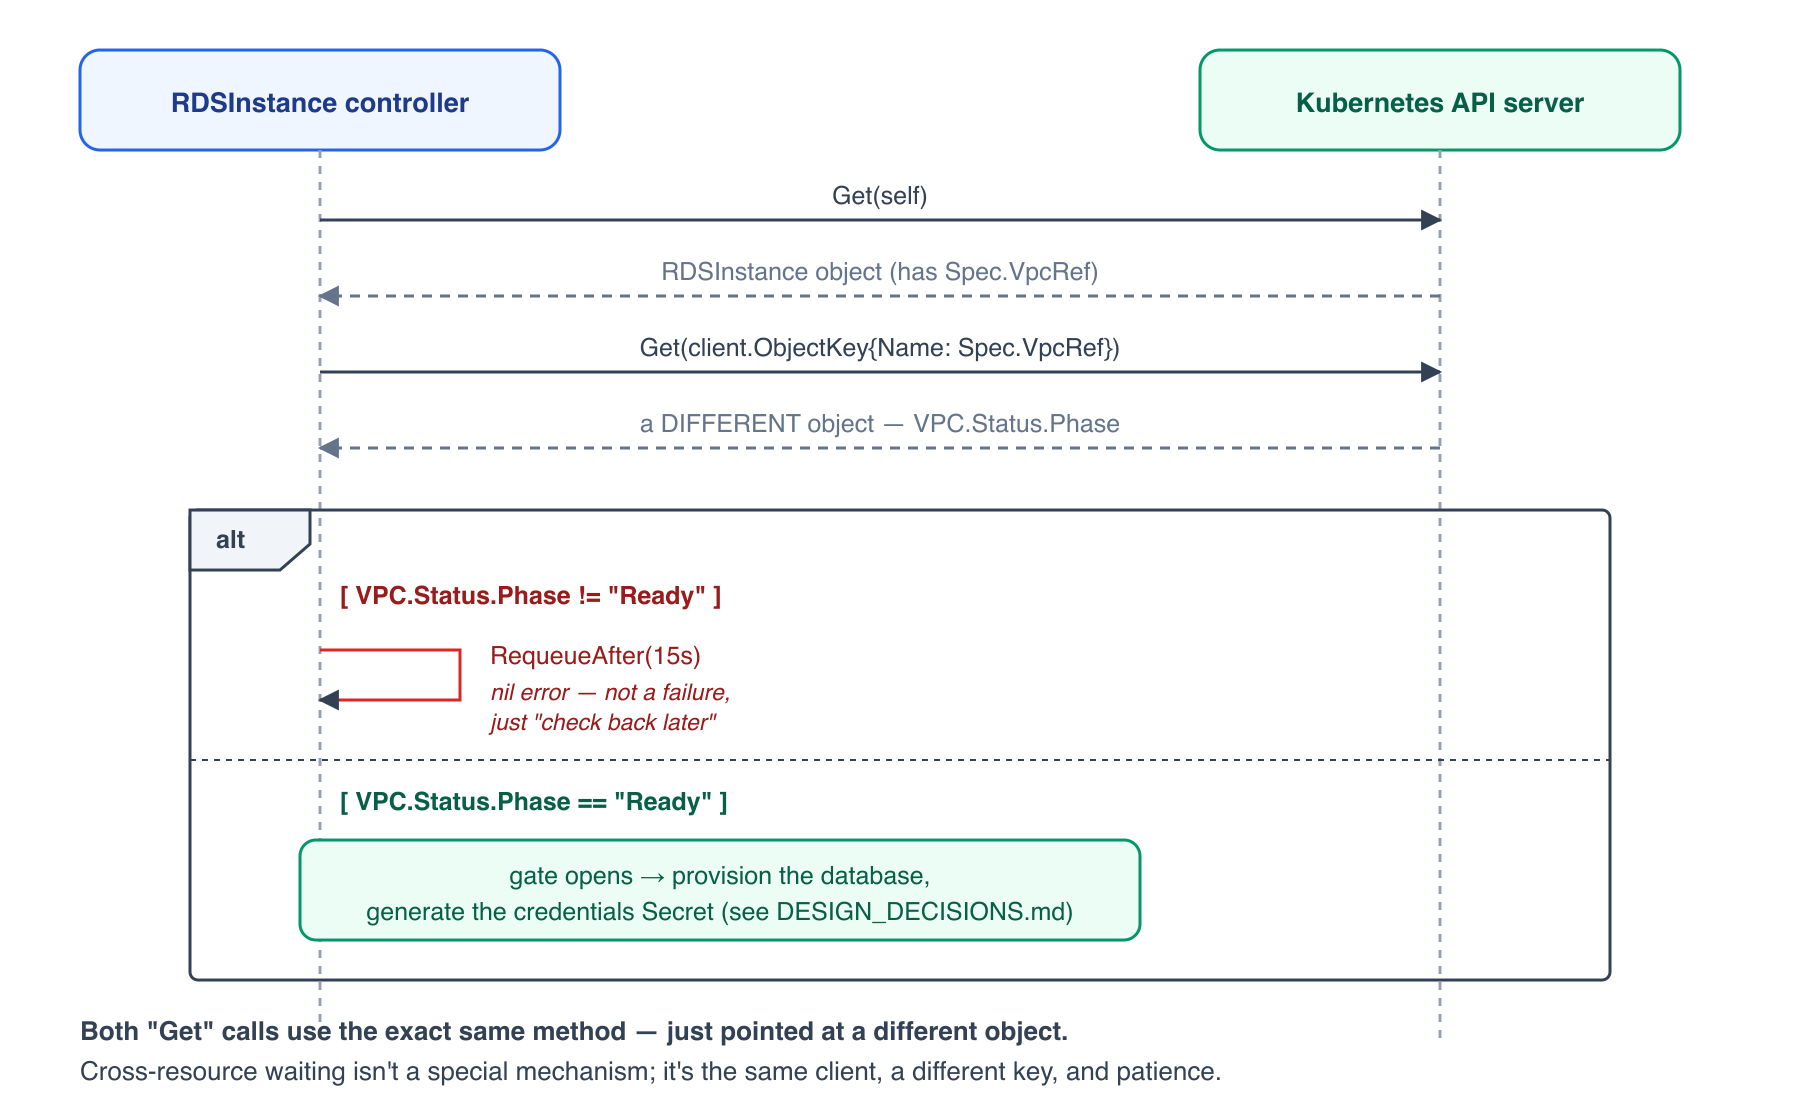
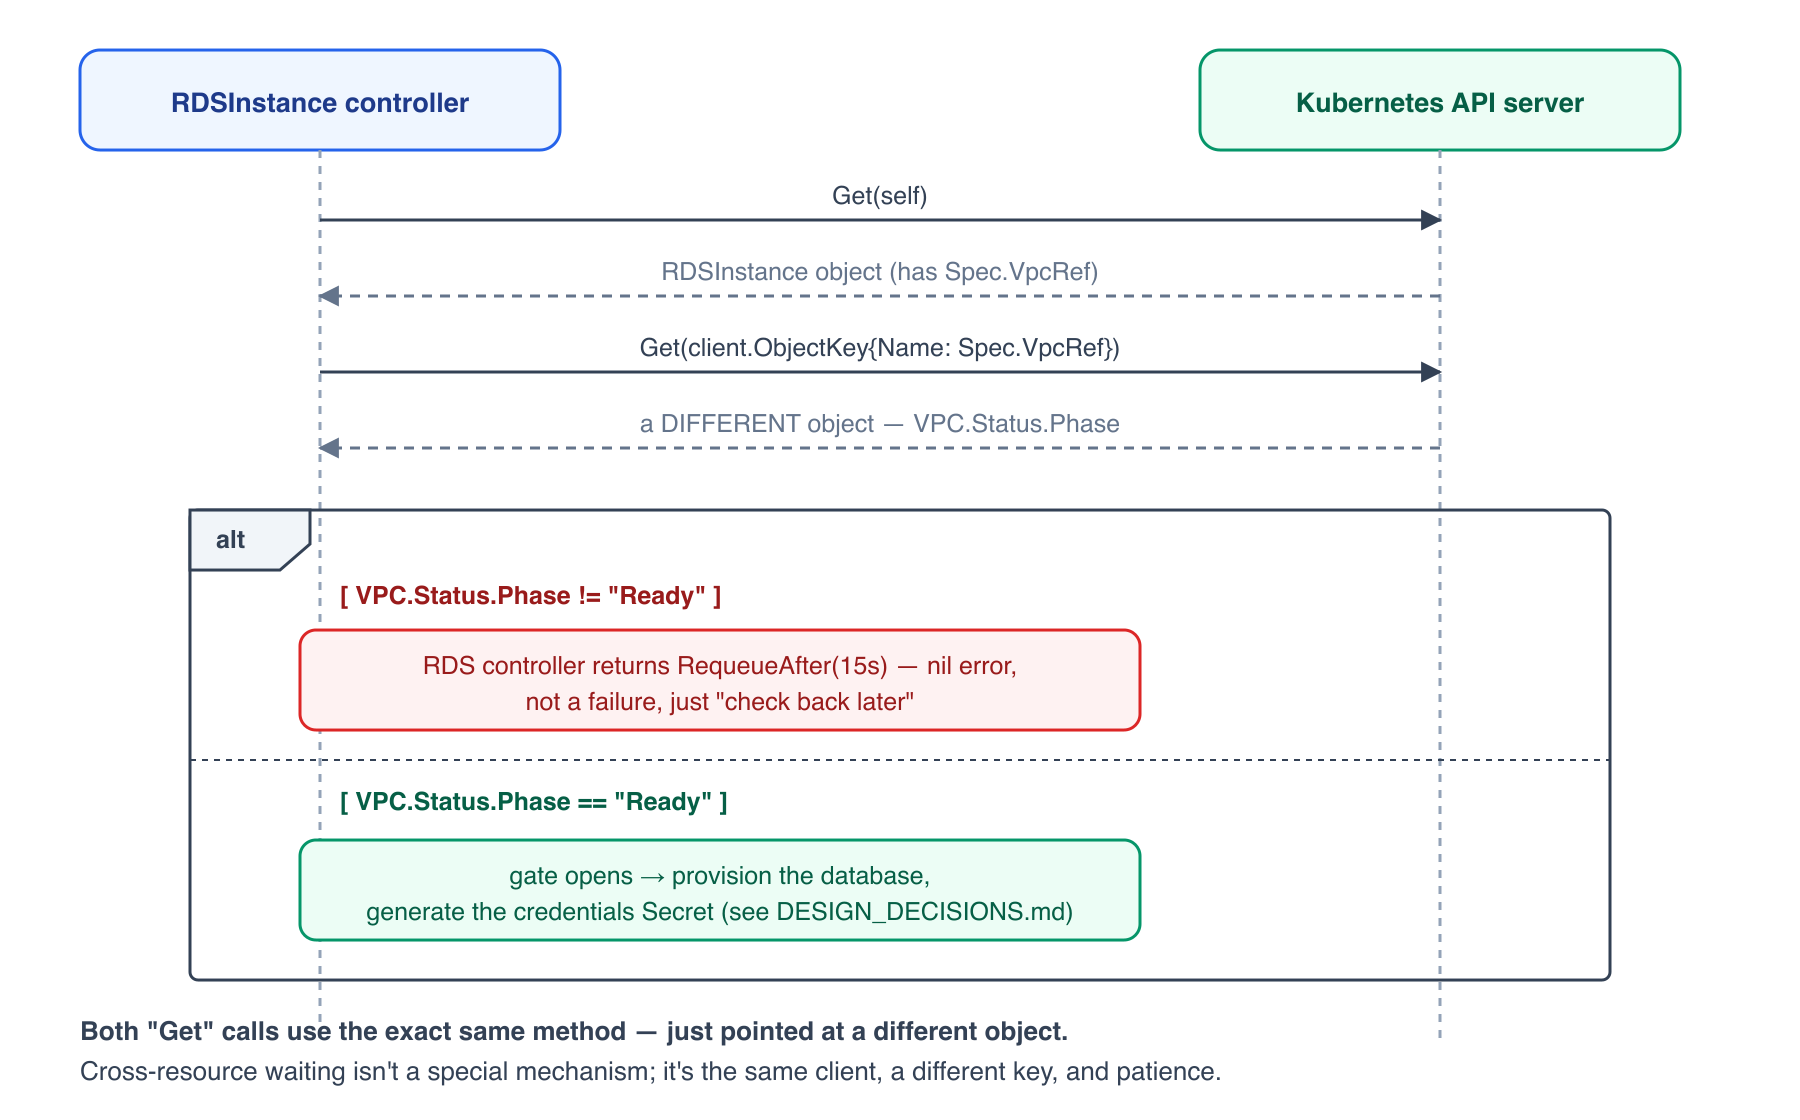
Update README, fix sequence diagram

Changed region(s): [[0.1556, 0.5625, 0.6222, 0.6562]]

diff --git a/README.md b/README.md
@@ -4,13 +4,29 @@ A Kubernetes operator that manages AWS infrastructure declaratively — define a
 
 > **Status:** all three CRDs are fully implemented — real reconcile logic, finalizer-based cleanup, hermetic tests, and live-demoed proof against real infrastructure. See [`docs/TESTING.md`](docs/TESTING.md) for coverage numbers.
 
+![CloudForge system overview](docs/images/architecture-overview.svg)
+
+```
+kubectl apply  →  Kubernetes API server (kind)  →  controller watches for changes
+                                                            │
+                                                  Reconcile() reads Spec,
+                                                  calls the AWS client,
+                                                  writes Status back
+                                                            │
+                                            internal/awsclient (interface)
+                                            ├── real implementation → LocalStack
+                                            └── in-memory test double
+```
+
 ## What it does
 
 Each CRD follows the same control-loop pattern Kubernetes itself uses for Pods and Deployments — a `Spec` describes desired state, a controller reconciles reality to match, a `Status` reports what's actually true — applied to cloud infrastructure instead of containers.
 
-- **`S3Bucket`** — provisions an S3 bucket; its finalizer empties the bucket before deleting it.
-- **`VPC`** — provisions a VPC with a given CIDR block and DNS settings.
-- **`RDSInstance`** — provisions a database inside a referenced `VPC`, waiting for it to be ready, then hands back credentials as an owner-referenced Kubernetes Secret.
+| Resource | What it does |
+|---|---|
+| **`S3Bucket`** | Provisions an S3 bucket; its finalizer empties the bucket before deleting it. |
+| **`VPC`** | Provisions a VPC with a given CIDR block and DNS settings. |
+| **`RDSInstance`** | Provisions a database inside a referenced `VPC`, waiting for it to be ready, then hands back credentials as an owner-referenced Kubernetes Secret. |
 
 All AWS access goes through an interface-based client layer, so every controller runs against a real SDK client or an in-memory test double — `S3Bucket`/`VPC` are verified against real LocalStack; `RDSInstance` (which LocalStack only supports on a paid tier) runs against the fake by design. Full diagram and reasoning: [`docs/ARCHITECTURE.md`](docs/ARCHITECTURE.md).
 
@@ -23,12 +39,24 @@ All AWS access goes through an interface-based client layer, so every controller
 ## Project Structure
 
 ```
-api/v1alpha1/        # CRD type definitions (Spec/Status structs)
+api/v1alpha1/                 # CRD type definitions (Spec/Status structs)
+├── s3bucket_types.go
+├── vpc_types.go
+└── rdsinstance_types.go
+
 internal/
-├── awsclient/        # AWS access, behind interfaces (real SDK + in-memory fakes)
-└── controller/        # one reconciler per CRD
-cmd/main.go            # manager entrypoint
-config/samples/        # example YAML for each CRD
+├── awsclient/                # AWS access, behind interfaces
+│   ├── s3.go, ec2.go, rds.go       # interfaces + real SDK implementations
+│   └── fake/                       # in-memory test doubles
+└── controller/                # one reconciler per CRD
+    ├── s3bucket_controller.go
+    ├── vpc_controller.go
+    └── rdsinstance_controller.go
+
+cmd/main.go                    # manager entrypoint, wires everything together
+config/samples/                # example YAML for each CRD
+kind-config.yaml                # local Kubernetes cluster definition
+docker-compose.localstack.yaml  # local AWS emulator
 ```
 
 ## Getting Started
@@ -65,6 +93,8 @@ go test -tags=integration ./...        # round-trips real calls against LocalSta
 
 ## Documentation
 
-- [**`docs/ARCHITECTURE.md`**](docs/ARCHITECTURE.md) — how it's built: the reconcile loop, system diagram, command reference.
-- [**`docs/DESIGN_DECISIONS.md`**](docs/DESIGN_DECISIONS.md) — why it's built this way: scope cuts, trade-offs, the judgment behind the pattern.
-- [**`docs/TESTING.md`**](docs/TESTING.md) — how we know it's correct: testing strategy, bugs caught, real numbers.
+| Doc | Covers |
+|---|---|
+| [**`docs/ARCHITECTURE.md`**](docs/ARCHITECTURE.md) | How it's built: the reconcile loop, system diagram, command reference. |
+| [**`docs/DESIGN_DECISIONS.md`**](docs/DESIGN_DECISIONS.md) | Why it's built this way: scope cuts, trade-offs, the judgment behind the pattern. |
+| [**`docs/TESTING.md`**](docs/TESTING.md) | How we know it's correct: testing strategy, bugs caught, real numbers. |
